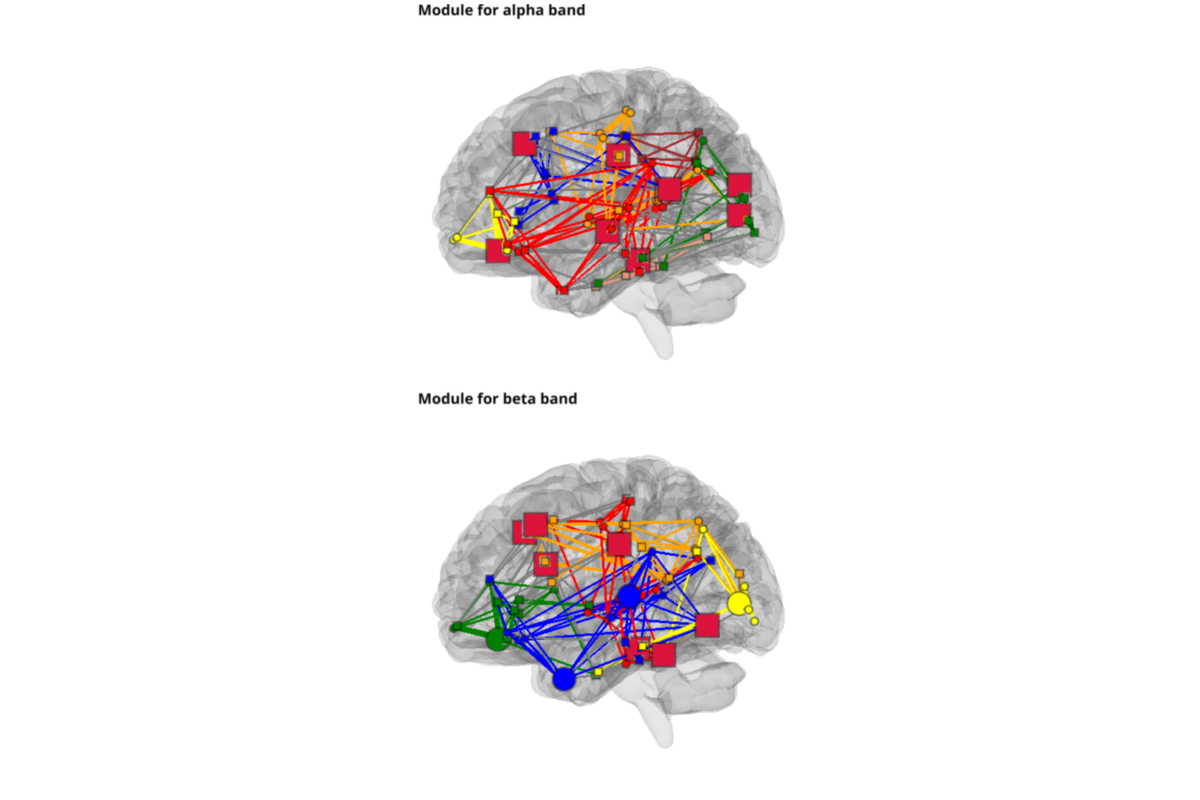
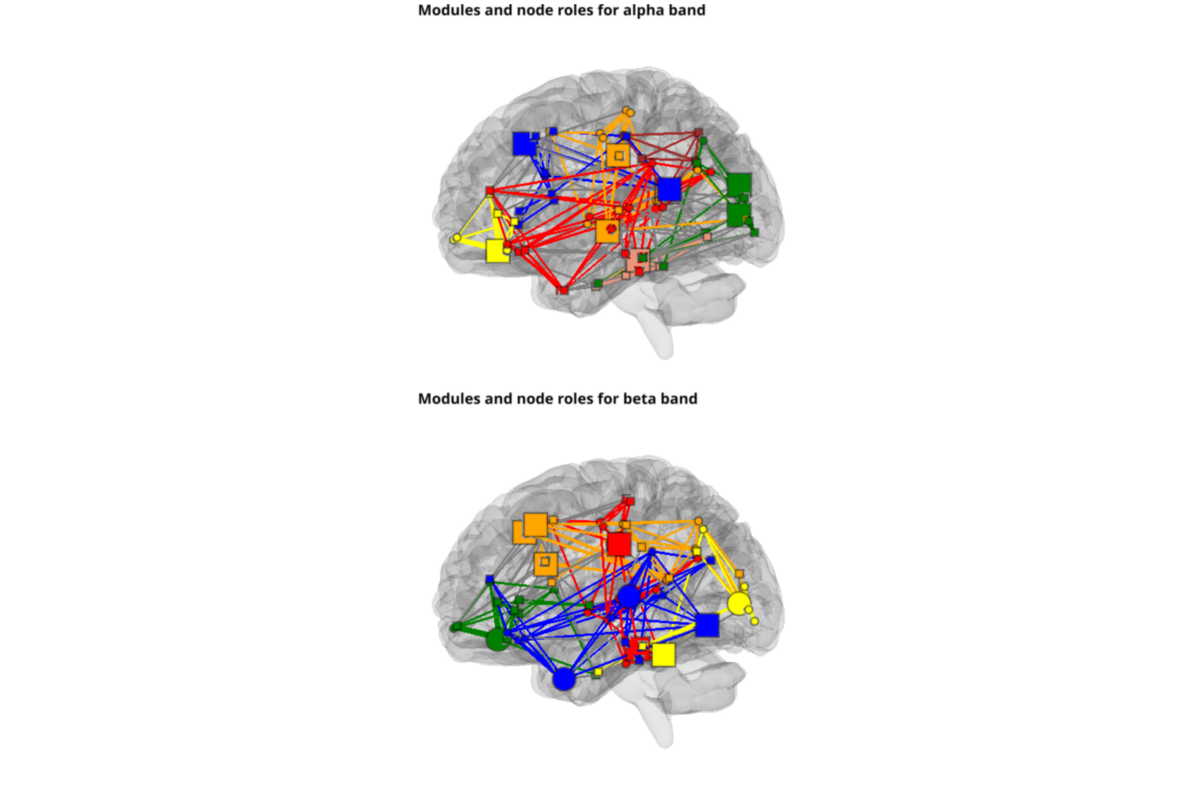
Make install

diff --git a/auto_examples/plot_inv_ts_to_graph.html b/auto_examples/plot_inv_ts_to_graph.html
@@ -324,7 +324,7 @@ correspond to how we connected the nodes.</p>
 
     <span class="n">b_obj</span> <span class="o">=</span> <span class="n">BrainObj</span><span class="p">(</span><span class="s2">&quot;B1&quot;</span><span class="p">,</span> <span class="n">translucent</span><span class="o">=</span><span class="bp">True</span><span class="p">)</span>
     <span class="n">sc</span><span class="o">.</span><span class="n">add_to_subplot</span><span class="p">(</span><span class="n">b_obj</span><span class="p">,</span> <span class="n">row</span><span class="o">=</span><span class="n">nf</span><span class="p">,</span> <span class="n">use_this_cam</span><span class="o">=</span><span class="bp">True</span><span class="p">,</span> <span class="n">rotate</span><span class="o">=</span><span class="s1">&#39;left&#39;</span><span class="p">,</span>
-                      <span class="n">title</span><span class="o">=</span><span class="p">(</span><span class="s2">&quot;Module for {} band&quot;</span><span class="o">.</span><span class="n">format</span><span class="p">(</span><span class="n">freq_band_name</span><span class="p">)),</span>
+                      <span class="n">title</span><span class="o">=</span><span class="p">(</span><span class="s2">&quot;Modules for {} band&quot;</span><span class="o">.</span><span class="n">format</span><span class="p">(</span><span class="n">freq_band_name</span><span class="p">)),</span>
                       <span class="n">title_size</span><span class="o">=</span><span class="mi">14</span><span class="p">,</span> <span class="n">title_bold</span><span class="o">=</span><span class="bp">True</span><span class="p">,</span> <span class="n">title_color</span><span class="o">=</span><span class="s1">&#39;black&#39;</span><span class="p">)</span>
 
     <span class="n">c_obj</span><span class="p">,</span><span class="n">s_obj</span> <span class="o">=</span> <span class="n">visu_graph_modules</span><span class="p">(</span><span class="n">lol_file</span><span class="o">=</span><span class="n">lol_file</span><span class="p">,</span> <span class="n">net_file</span><span class="o">=</span><span class="n">net_file</span><span class="p">,</span>
@@ -360,7 +360,7 @@ correspond to how we connected the nodes.</p>
 
     <span class="n">b_obj</span> <span class="o">=</span> <span class="n">BrainObj</span><span class="p">(</span><span class="s1">&#39;B1&#39;</span><span class="p">,</span> <span class="n">translucent</span><span class="o">=</span><span class="bp">True</span><span class="p">)</span>
     <span class="n">sc</span><span class="o">.</span><span class="n">add_to_subplot</span><span class="p">(</span><span class="n">b_obj</span><span class="p">,</span> <span class="n">row</span><span class="o">=</span><span class="n">nf</span><span class="p">,</span> <span class="n">use_this_cam</span><span class="o">=</span><span class="bp">True</span><span class="p">,</span> <span class="n">rotate</span><span class="o">=</span><span class="s1">&#39;left&#39;</span><span class="p">,</span>
-                      <span class="n">title</span><span class="o">=</span><span class="p">(</span><span class="s2">&quot;Module for {} band&quot;</span><span class="o">.</span><span class="n">format</span><span class="p">(</span><span class="n">freq_band_name</span><span class="p">)),</span>
+                      <span class="n">title</span><span class="o">=</span><span class="p">(</span><span class="s2">&quot;Modules and node roles for {} band&quot;</span><span class="o">.</span><span class="n">format</span><span class="p">(</span><span class="n">freq_band_name</span><span class="p">)),</span>
                       <span class="n">title_size</span><span class="o">=</span><span class="mi">14</span><span class="p">,</span> <span class="n">title_bold</span><span class="o">=</span><span class="bp">True</span><span class="p">,</span> <span class="n">title_color</span><span class="o">=</span><span class="s1">&#39;black&#39;</span><span class="p">)</span>
 
     <span class="n">c_obj</span><span class="p">,</span><span class="n">list_sources</span> <span class="o">=</span> <span class="n">visu_graph_modules_roles</span><span class="p">(</span>
@@ -377,7 +377,7 @@ correspond to how we connected the nodes.</p>
 </pre></div>
 </div>
 <img alt="../_images/sphx_glr_plot_inv_ts_to_graph_003.png" class="sphx-glr-single-img" src="../_images/sphx_glr_plot_inv_ts_to_graph_003.png" />
-<p><strong>Total running time of the script:</strong> ( 0 minutes  24.732 seconds)</p>
+<p><strong>Total running time of the script:</strong> ( 0 minutes  24.874 seconds)</p>
 <div class="sphx-glr-footer class sphx-glr-footer-example docutils container" id="sphx-glr-download-auto-examples-plot-inv-ts-to-graph-py">
 <div class="sphx-glr-download docutils container">
 <a class="reference download internal" download="" href="../_downloads/c408898dc7b654b78c9005349545b8bd/plot_inv_ts_to_graph.py"><code class="xref download docutils literal notranslate"><span class="pre">Download</span> <span class="pre">Python</span> <span class="pre">source</span> <span class="pre">code:</span> <span class="pre">plot_inv_ts_to_graph.py</span></code></a></div>

diff --git a/_downloads/c408898dc7b654b78c9005349545b8bd/plot_inv_ts_to_graph.py b/_downloads/c408898dc7b654b78c9005349545b8bd/plot_inv_ts_to_graph.py
@@ -213,7 +213,7 @@ for nf, freq_band_name in enumerate(freq_band_names):
 
     b_obj = BrainObj("B1", translucent=True)
     sc.add_to_subplot(b_obj, row=nf, use_this_cam=True, rotate='left',
-                      title=("Module for {} band".format(freq_band_name)),
+                      title=("Modules for {} band".format(freq_band_name)),
                       title_size=14, title_bold=True, title_color='black')
 
     c_obj,s_obj = visu_graph_modules(lol_file=lol_file, net_file=net_file,
@@ -249,7 +249,7 @@ for nf, freq_band_name in enumerate(freq_band_names):
 
     b_obj = BrainObj('B1', translucent=True)
     sc.add_to_subplot(b_obj, row=nf, use_this_cam=True, rotate='left',
-                      title=("Module for {} band".format(freq_band_name)),
+                      title=("Modules and node roles for {} band".format(freq_band_name)),
                       title_size=14, title_bold=True, title_color='black')
 
     c_obj,list_sources = visu_graph_modules_roles(
